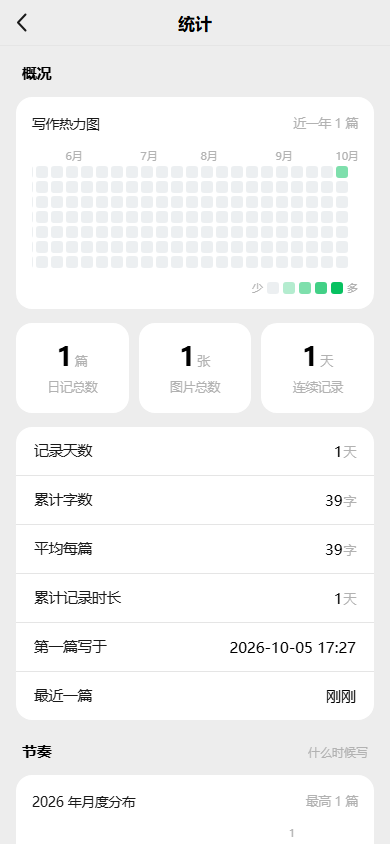
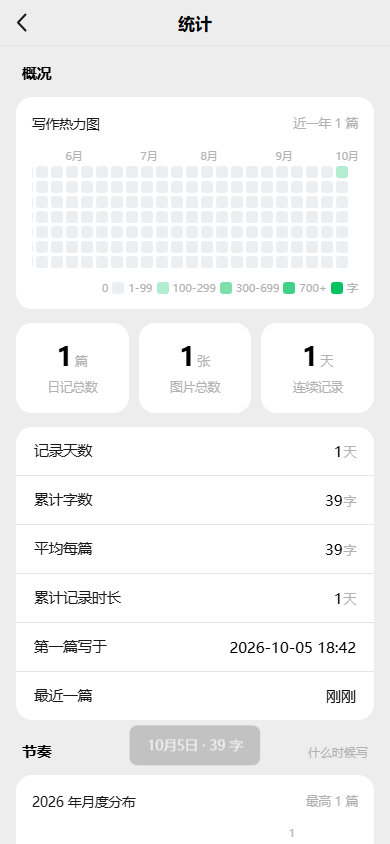
fix(stats): heatmap shading by absolute word counts, tap cell for day info
- replace quartile shading with fixed thresholds (1/100/300/700 chars):
  a 39-char day must show the lightest shade, not a mid one
- legend now labels each shade with its word range
- tapping a cell shows that day's info via toast (mobile has no hover)

diff --git a/index.html b/index.html
@@ -708,6 +708,7 @@ input,textarea{font-family:inherit}
 /* 月份标签固定 12px 宽并允许溢出：不固定的话文字会把整列撑宽，格子就散了 */
 .heat-m{flex:none;width:12px;height:14px;line-height:14px;font-size:10.5px;color:var(--sub);white-space:nowrap}
 .heat-c{width:12px;height:12px;border-radius:3px;background:var(--ink-tint)}
+.heat-grid .heat-c{cursor:pointer}
 .heat-c.l1{background:var(--green);opacity:.3}
 .heat-c.l2{background:var(--green);opacity:.52}
 .heat-c.l3{background:var(--green);opacity:.76}
@@ -2623,8 +2624,9 @@ function hourLabel(h) {
 }
 /**
  * 年度写作热力图：近 53 周 × 7 天，每格一天。
- * 分档用「有记录的天」做四分位（相对深浅），不写死字数阈值 ——
- * 一天写 50 字的人和一天写 800 字的人，都该看出自己的疏密。
+ * 分档用**绝对字数阈值**（1 / 100 / 300 / 700 字四档）—— 颜色必须能对上字数：
+ * 只写了 39 字，格子就得是最浅档，不能靠"相对排名"装成中等深浅。
+ * （第一版做过四分位相对分档，用户一眼看出不对：颜色对不上字数就是不精准。）
  * 它不设样本门槛：数据少时整片空格子本身就是信息，这是它比折线图强的地方。
  */
 function heatmapHtml(byDay) {
@@ -2634,15 +2636,11 @@ function heatmapHtml(byDay) {
   var start = new Date(today);
   start.setDate(start.getDate() - ((start.getDay() + 6) % 7) - 52 * 7); // 本周一往前 52 周
 
-  var vals = Object.keys(byDay).map(function (k) { return byDay[k]; })
-    .sort(function (a, b) { return a - b; });
   function level(v) {
     if (!v) return 0;
-    if (vals.length < 2) return 2;  // 只有一天有记录：给中间档，不假装很深也不假装很浅
-    var at = function (p) { return vals[Math.min(vals.length - 1, Math.floor(p * vals.length))]; };
-    if (v <= at(0.25)) return 1;
-    if (v <= at(0.5)) return 2;
-    if (v <= at(0.75)) return 3;
+    if (v < 100) return 1;
+    if (v < 300) return 2;
+    if (v < 700) return 3;
     return 4;
   }
 
@@ -2813,8 +2811,10 @@ function renderStats() {
       '<div class="chart-card">' +
         '<div class="chart-title">写作热力图<span>' + escapeHtml(heatNote) + '</span></div>' +
         heatmapHtml(byDay) +
-        '<div class="heat-legend"><span>少</span><i class="heat-c"></i><i class="heat-c l1"></i>' +
-          '<i class="heat-c l2"></i><i class="heat-c l3"></i><i class="heat-c l4"></i><span>多</span></div>' +
+        '<div class="heat-legend"><span>0</span><i class="heat-c"></i>' +
+          '<span>1-99</span><i class="heat-c l1"></i><span>100-299</span><i class="heat-c l2"></i>' +
+          '<span>300-699</span><i class="heat-c l3"></i><span>700+</span><i class="heat-c l4"></i>' +
+          '<span>字</span></div>' +
       '</div>' +
       '<div class="stat-cards">' +
         '<div class="stat-card"><div class="stat-num">' + list.length + '<small>篇</small></div><div class="stat-cap">日记总数</div></div>' +
@@ -2871,9 +2871,17 @@ function renderStats() {
     '</div>' +
     '<div class="stat-note">统计只在本机计算，不会上传任何数据。</div>';
 
-  // 热力图默认停在最右（最近的时间）；要看更早的横向滑
+  // 热力图：默认停在最右（最近的时间），要看更早的横向滑；
+  // 手机上没有 hover，点格子用 toast 弹出那天的信息（和桌面 hover 的 title 同款内容）
   var hs = $('#heatScroll');
-  if (hs) hs.scrollLeft = hs.scrollWidth;
+  if (hs) {
+    hs.scrollLeft = hs.scrollWidth;
+    hs.addEventListener('click', function (ev) {
+      var t = ev.target;
+      // 图例里的色块也是 .heat-c，但没有 title，正好被这一条挡掉
+      if (t.classList && t.classList.contains('heat-c') && t.title) toast(t.title);
+    });
+  }
 }
 
 /* ---------------- 图片查看器 ---------------- */
